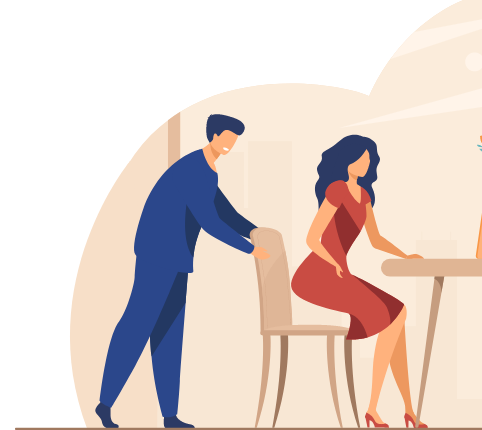
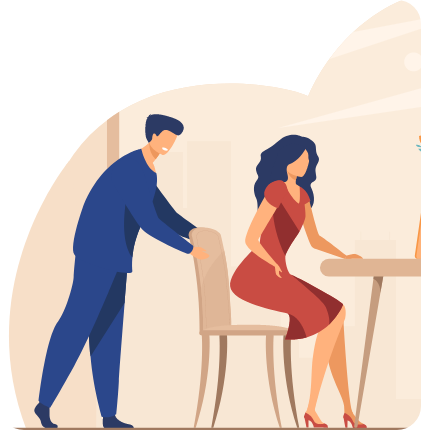
save

diff --git a/src/Components/ContactDetailsPage/ContactDetailsGrid.js b/src/Components/ContactDetailsPage/ContactDetailsGrid.js
@@ -2,12 +2,12 @@ import React from 'react';
 import { makeStyles } from '@material-ui/core/styles';
 import Grid from '@material-ui/core/Grid';
 import ContactDetails from './ContactDetailsTitle';
-import Illustration2 from '../Illustration2';
 import ConfirmButton from './ConfirmButton';
 import NameTextFields from './NameTextField';
 import MobileNoTextFields from './MobileNoTextField';
 import EmailIdTextFields from './EmailIdTextField';
 import GuestNoTextFields from './GuestsNoTextField';
+import Illustration2 from '../../Assets/illustration2.png'
 
 const useStyles = makeStyles((theme) => ({
   root: {
@@ -31,12 +31,14 @@ export default function ContactDetailsGrid() {
         </Grid>
         
         {/* the illustration on the page, done by single image list */}
-        <Grid item xs={12} lg={12}>
-          <Illustration2/>
+        <Grid item xs={12} md={12} lg={12}>
+        <img src={Illustration2} alt="" width="300" height="330">
+        </img>
         </Grid>
+
         
          {/* for entering your details text */}
-         <Grid item xs={5} lg={12}>
+         <Grid item xs={6} lg={12}>
          Enter Your Details
          </Grid>
 

diff --git a/src/Components/ReservationPage/ReservationGrid.js b/src/Components/ReservationPage/ReservationGrid.js
@@ -2,11 +2,11 @@ import React from 'react';
 import { makeStyles } from '@material-ui/core/styles';
 import Grid from '@material-ui/core/Grid';
 import ReservationDetailsTitle from './ReservationDetailsTitle';
-import Illustration1 from '../Illustration1';
 import MaterialUIPickers from './datetime';
 import MealSelection from './MealSelection';
 import SimpleAccordion from './accordian';
 import ContinueButton from './ContinueButton';
+import Illustration1 from '../../Assets/illustration1.png'
 
 const useStyles = makeStyles((theme) => ({
   root: {
@@ -33,9 +33,13 @@ export default function ReservationGrid() {
 
 
         {/* illustration on the page, done with single image list */}
+        
         <Grid item xs={12} lg={12}>
-         <Illustration1/>
+        <img src={Illustration1} alt="" width="200" height="200">
+        </img>
         </Grid>
+
+
         
         {/* for selecting the date, the component name is datetime, i was unabel to rename it */}
         <Grid item xs={12} lg={12}>

diff --git a/src/App.js b/src/App.js
@@ -5,7 +5,7 @@ import ReservationStep from './Pages/ReservationStep.js'
 import ContactDetails from './Pages/ContactDetails.js'
 import FinalBook from './Pages/FinalBook'
 import SimpleBottomNavigation from './Components/HomePage/SimpleBottomNavigation';
-import Grid from './Pages/Grid.js'
+
 
 function App() {
   return (
@@ -24,7 +24,7 @@ function App() {
             <Route path={process.env.PUBLIC_URL + '/reservationstep'}  > <ReservationStep/> </Route>
             <Route path={process.env.PUBLIC_URL + '/contactdetails'}  > <ContactDetails/> </Route>
             <Route path={process.env.PUBLIC_URL + '/finalbook'}  > <FinalBook/> </Route> 
-            <Route path={process.env.PUBLIC_URL + '/grid'}  > <Grid/> </Route>                 
+                           
           </Switch>
           
       <footer className="App-footer">

diff --git a/src/Components/FinalBookPage/ContinueBrowsingButton.js b/src/Components/FinalBookPage/ContinueBrowsingButton.js
@@ -9,8 +9,9 @@ import { Link, Router } from "react-router-dom";
 const useStyles = makeStyles((theme) => ({
   root: {
     '& > *': {
-      margin: theme.spacing(5),
- 
+      margin: theme.spacing(2),
+      
+      
     },
   },
 }));
@@ -21,8 +22,11 @@ export default function ContinueBrowsingButton() {
   
   return (
     <div className={classes.root}>
+    
+    
       <Link to={process.env.PUBLIC_URL + '/home'}>
         <Button variant="contained" color="Secondary" href="">
+        
           Continue Browsing
         </Button>
       </Link>

diff --git a/src/Pages/ReservationStep.js b/src/Pages/ReservationStep.js
@@ -1,16 +1,16 @@
 import React from 'react';
 import Container from '@material-ui/core/Container';
-import ContinueButton from '../Components/ReservationPage/ContinueButton';
 import ReservationGrid from '../Components/ReservationPage/ReservationGrid';
 
-
 export default function Gallery() {
+
+
   return (
     <React.Fragment>
       <Container fixed>
-        
-        <ReservationGrid/>
 
+        <ReservationGrid />
+        
       </Container>
 
     </React.Fragment>

diff --git a/src/Components/FinalBookPage/DownloadAsImagePopup.js b/src/Components/FinalBookPage/DownloadAsImagePopup.js
@@ -22,9 +22,11 @@ export default function AlertDialog() {
 
   return (
     <div>
-      <Grid item xs={12} lg={12} >
-        <Button variant="contained" color="secondary" onClick={handleClickOpen}>
+      <Grid item xs={10} lg={12} >
+      
+        <Button variant="contained" color="secondary" onClick={handleClickOpen }>
           Download as an Image
+          
         </Button>
       </Grid>
 

diff --git a/src/Components/ReservationPage/datetime.js b/src/Components/ReservationPage/datetime.js
@@ -29,7 +29,7 @@ export default function MaterialUIPickers() {
           margin="normal"
           id="date-picker-inline"
           label="Date picker inline"
-          fullWidth
+          // fullWidth
           value={selectedDate}
           onChange={handleDateChange}
           KeyboardButtonProps={{

diff --git a/src/Components/ReservationPage/MealSelection.js b/src/Components/ReservationPage/MealSelection.js
@@ -13,7 +13,7 @@ import Button from '@material-ui/core/Button';
 
 const useStyles = makeStyles((theme) => ({
   root: {
-    width: '100%',
+    width: '75%',
   },
   heading: {
     fontSize: theme.typography.pxToRem(15),

diff --git a/src/Components/ReservationPage/accordian.js b/src/Components/ReservationPage/accordian.js
@@ -10,7 +10,7 @@ import TimeButtons from './TimeButtons';
 
 const useStyles = makeStyles((theme) => ({
   root: {
-    width: '100%',
+    width: '75%',
   },
   heading: {
     fontSize: theme.typography.pxToRem(15),
